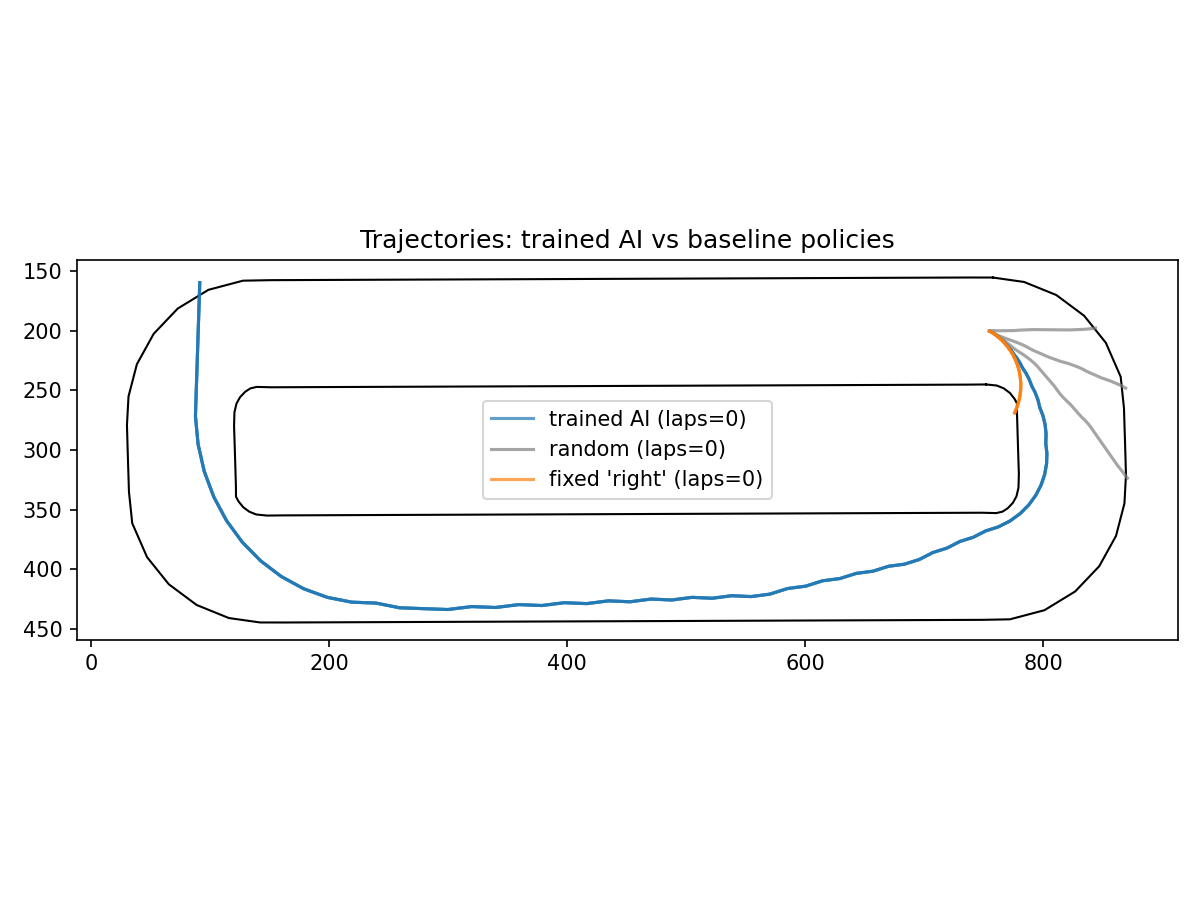
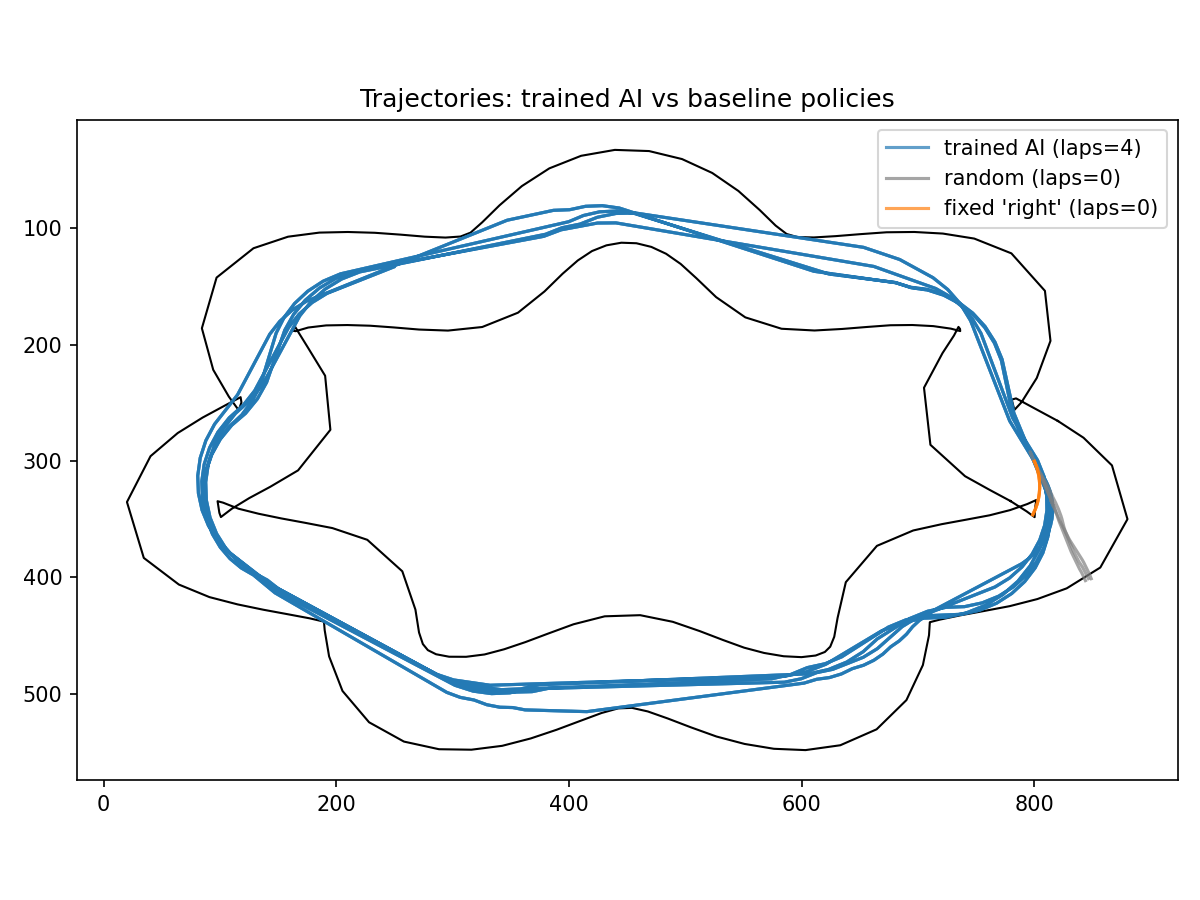
modification of the README

diff --git a/config.py b/config.py
@@ -34,17 +34,17 @@ CAR_WIDTH = 20
 # the others are simply ignored, so you can leave every value set and just
 # flip TRACK_SHAPE to try a different one.
 # ===========================================================================
-TRACK_SHAPE = "rounded_rect"
+TRACK_SHAPE = "wavy"
 
 TRACK_CENTER_X = SCREEN_WIDTH / 2
 TRACK_CENTER_Y = SCREEN_HEIGHT / 2
 TRACK_NUM_POINTS = 100            # how many points make up the track's centerline
 TRACK_CLOCKWISE = True            # False = car drives the loop in the opposite direction
 
-TRACK_RX = 100                   # used by "oval", "wavy", "pinched"
-TRACK_RY = 100                    # used by "oval", "wavy", "pinched"
+TRACK_RX = 350                  # used by "oval", "wavy", "pinched"
+TRACK_RY = 200                   # used by "oval", "wavy", "pinched"
 
-TRACK_WOBBLE = 30               # used by "wavy" - keep well under TRACK_CORRIDOR_WIDTH
+TRACK_WOBBLE = 50               # used by "wavy" - keep well under TRACK_CORRIDOR_WIDTH
 TRACK_WOBBLE_FREQUENCY = 7        # used by "wavy" - number of wobbles per lap
 
 TRACK_RECT_WIDTH = 750            # used by "rounded_rect"
@@ -54,7 +54,7 @@ TRACK_CORNER_RADIUS = 70          # used by "rounded_rect"
 TRACK_NUM_PINCHES = 3             # used by "pinched"
 TRACK_PINCH_STRENGTH = 0.25       # used by "pinched" - keep modest, see track.py's caution note
 
-TRACK_CORRIDOR_WIDTH = 50     # distance between inner and outer walls, all shapes
+TRACK_CORRIDOR_WIDTH = 80     # distance between inner and outer walls, all shapes
 TRACK_NUM_CHECKPOINTS = 24
 TRACK_CHECKPOINT_RADIUS = 50      # how close the car must get to "hit" a checkpoint
 
@@ -67,9 +67,9 @@ SENSOR_RANGE = 250
 # ===========================================================================
 # REWARD SHAPING
 # ===========================================================================
-REWARD_PROGRESS_SCALE = 0.2        # reward per pixel closer to the next checkpoint, this frame
+REWARD_PROGRESS_SCALE = 0.25        # reward per pixel closer to the next checkpoint, this frame
 REWARD_PER_FRAME_PENALTY = -0.01   # constant per-frame cost, discourages idling
-REWARD_CHECKPOINT_BONUS = 10.0
+REWARD_CHECKPOINT_BONUS = 20.0
 REWARD_OFF_TRACK_PENALTY = -70.0
 
 # ===========================================================================
@@ -81,9 +81,9 @@ HIDDEN_SIZE = 12
 # GENETIC ALGORITHM
 # ===========================================================================
 POP_SIZE = 60
-NUM_GENERATIONS = 1500        # how many generations THIS run performs
-MUTATION_RATE = 0.15         # probability each individual weight gets mutated
-MUTATION_STRENGTH = 0.3      # size of the random nudge when it does
+NUM_GENERATIONS = 150        # how many generations THIS run performs
+MUTATION_RATE = 0.05         # probability each individual weight gets mutated
+MUTATION_STRENGTH = 0.01      # size of the random nudge when it does
 ELITE_FRACTION = 0.1         # fraction of the parent pool cloned unchanged each generation
 HOF_SIZE = 20                # how many all-time-best networks are kept and bred from
 
